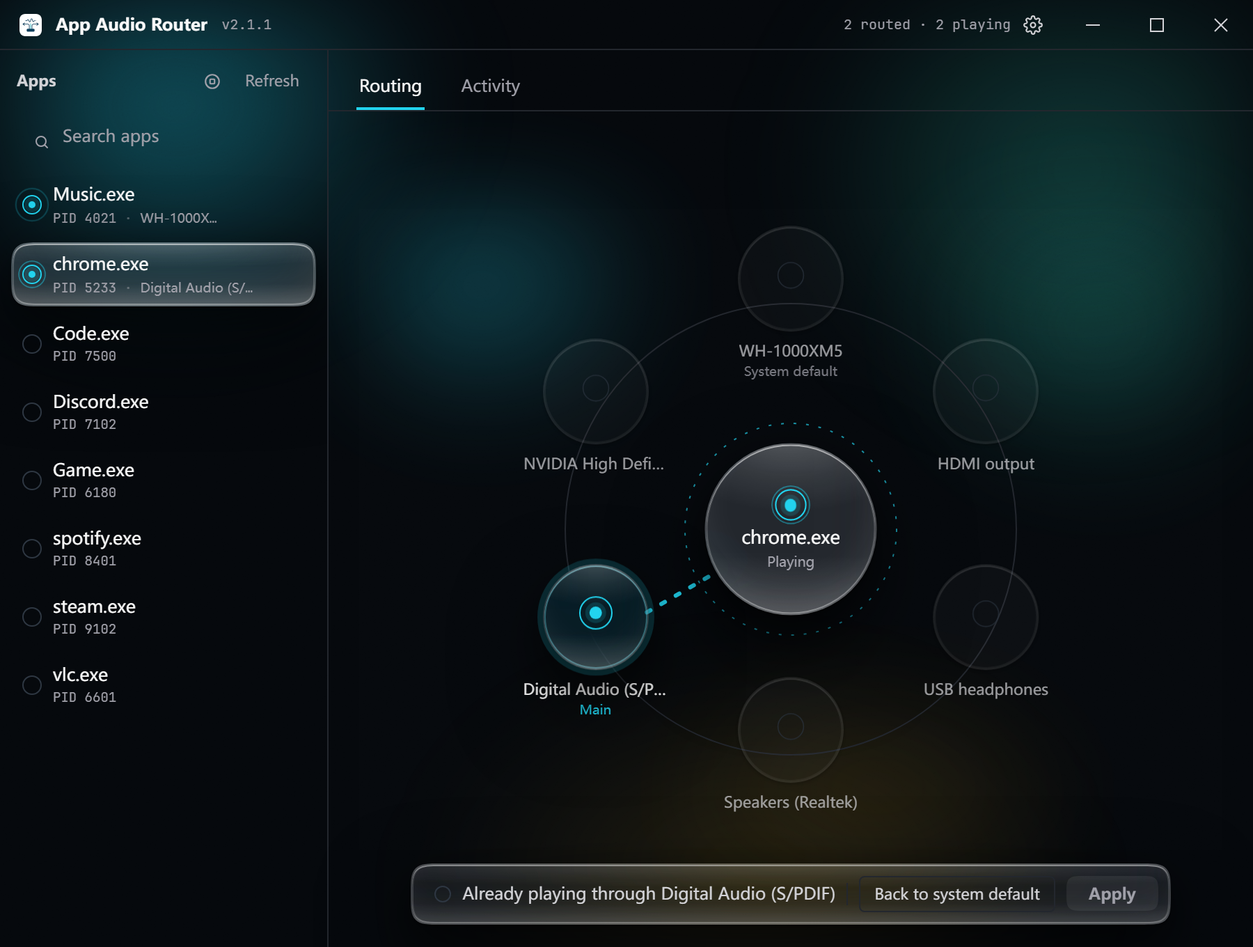
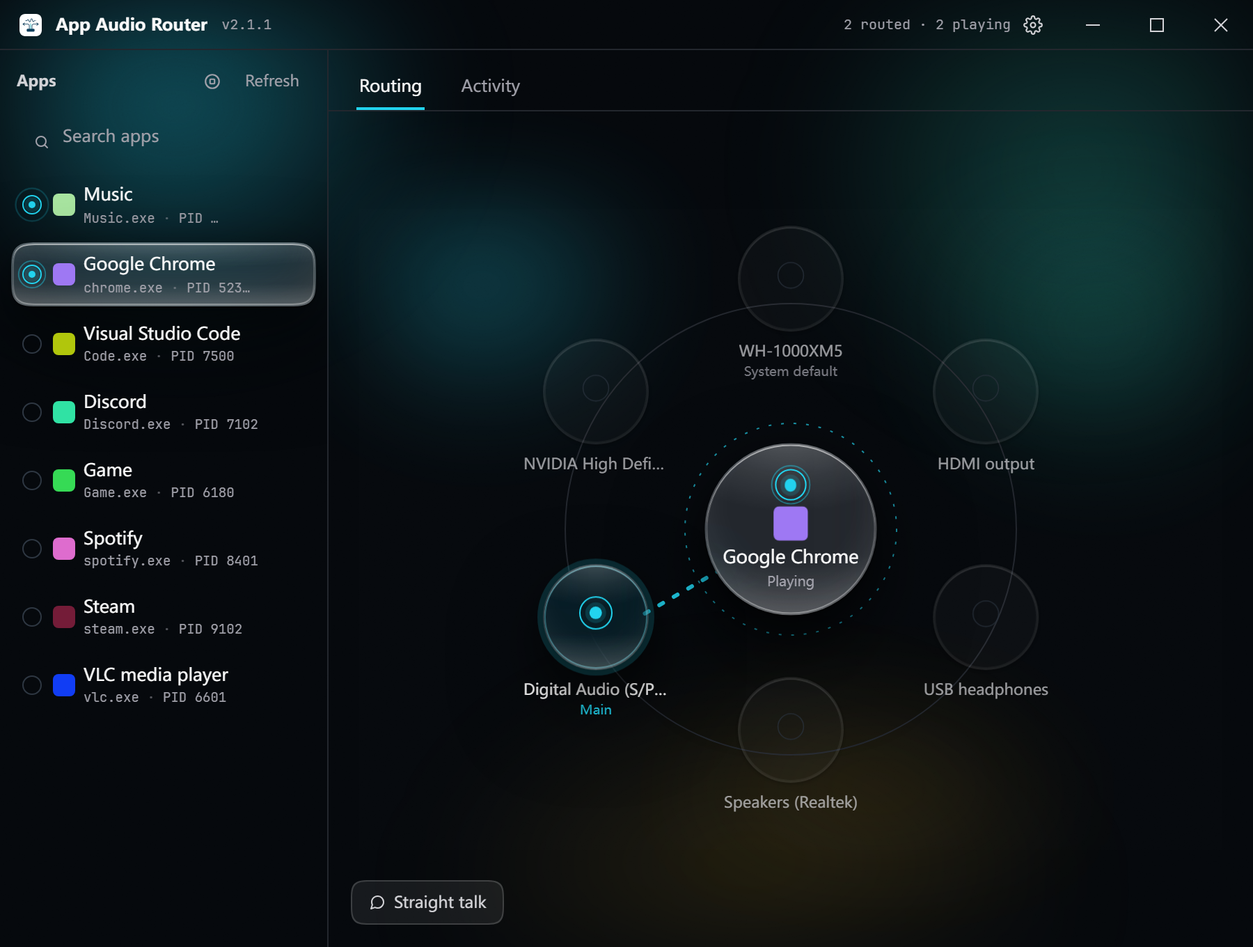
docs: the hub applies, the dock is gone, and 直说 tells the state
AGENTS.md: the stage spec now describes the hub as the apply button
(badge, aria sentence, revert-by-reselect, the way back living in the
rail), documents the StatusBriefing bubble as the on-demand exception
to the no-second-summary rule, and moves the Escape-with-visibility
rule to its new anchor; the checklist follows. Both READMEs say
"click the circle in the middle" where they said press Apply, and the
screenshots are recaptured without the dock.

diff --git a/AGENTS.md b/AGENTS.md
@@ -58,7 +58,7 @@ AppAudioRouter/
 │   ├── components/         # UI 组件
 │   │   ├── ConcentricStage.tsx   # 同心圆舞台，也是路由唯一被表达的地方：中心是被选中的那个程序（Hub），每台输出设备一枚环绕它的玻璃圆盘（Satellite），每枚参与路由的圆盘与中心之间一根辐条；内含只给副本用的 Tuner
 │   │   ├── ProgramRail.tsx       # 左栏程序列表：每行一个正在出声的程序，行末那颗圆形开关「同时更改此程序的输出」取代了 Ctrl+点击
-│   │   ├── ActionDock.tsx        # 工作区底部悬浮玻璃条：一句话 + Apply（舞台永远只是提案）；唯一的「回到系统默认」也在这里
+│   │   ├── StatusBriefing.tsx    # 「直说」按钮 + 现状气泡：点一下就用大白话说清此刻每个程序从哪儿出声；按钮的完整名字放自制的 ui/Tooltip
 │   │   ├── SourceLevelDial.tsx   # 中心圆盘下方的每程序电平环（0–400 %，套 ScrubReadout 的 lead 槽画环），只在多设备路由时挂载
 │   │   ├── Toast.tsx             # 瞬态提示：路由后提供「撤销」（全项目唯一的撤销入口）
 │   │   ├── SettingsPage.tsx      # 设置独立页面（主题/语言/路由开关/已记忆路由列表/每应用音频重置/后台开关/延迟范围·步进/一键对齐/关于）
@@ -73,6 +73,7 @@ AppAudioRouter/
 │   │       ├── SegmentedControl.tsx    # 下划线式分段控件（不是胶囊，也不是 pill track）
 │   │       ├── ScrubReadout.tsx        # 通用「数值即控件」（拖动/滚轮/方向键/键入），电平环在用；lead 槽可在数字前挂一个跟随预览值的图形
 │   │       ├── StepButton.tsx          # 方形 ± 按钮（h-6 w-6，仅设置页在用）
+│   │       ├── Tooltip.tsx             # 自制 tooltip（native `title` 迟、不可样式化、测试不可见）：悬停/聚焦稍作停留即出现；实体底，不走 backdrop-filter
 │   │       ├── ConfirmButton.tsx       # 二次确认按钮（先「确认？」再执行；Escape/失焦/超时解除）
 │   │       └── DelayStepper.tsx        # 设置页的延迟行控件（−/数值/+ 方框样式）
 │   ├── hooks/              # 自定义 hooks
@@ -93,7 +94,7 @@ AppAudioRouter/
 │   ├── lib/                # 工具函数
 │   │   ├── invoke.ts       # Tauri invoke 封装
 │   │   ├── delay.ts        # 延迟步进/钳制/范围换算
-│   │   ├── stage.ts        # 舞台几何：中心/圆盘/辐条的尺寸与角度（辐条两端由此算出，不测量）+ 三种角色各自的配色类名
+│   │   ├── stage.ts        # 舞台几何：中心/圆盘/辐条的尺寸与角度（辐条两端由此算出，不测量）+ 三种角色各自的配色类名 + alreadyApplied（计划是否已是事实）
 │   │   ├── motion.ts       # 全局共享动效曲线（tap / glide / route / fade）
 │   │   ├── types.ts        # 共享类型定义
 │   │   └── window.ts       # 窗口控制（懒加载 Tauri API）
@@ -126,7 +127,7 @@ AppAudioRouter/
    - 类型/接口：`PascalCase`，**不**加 `I` 前缀
 6. **Tailwind**：优先 utility class，禁止自定义 CSS 类（除非通过 `@apply` 或 CSS variables）
 7. **动画**：统一使用 Motion 组件，禁止手写 `@keyframes`（除非 Motion 无法实现）。spring 与时长一律取 `lib/motion.ts` 的四条共享曲线——`SPRING_TAP`（微交互）/ `SPRING_GLIDE`（有位移的元素）/ `SPRING_ROUTE`（路由动作本身）/ `FADE`（纯透明度），**不要在调用点现调参数**：邻居之间弹得不一样看着像 bug，不像设计。`main.tsx` 的 `MotionConfig reducedMotion="user"` 已全局跟随系统「减少动态效果」，新增动画不必各自判断。
-8. **动效只用来报告状态**：动画要说明一件正在发生的事（视图切换、下划线迁移、操作条浮出、路由已生效、程序正在出声），纯装饰的无限循环一律不加——日志面板那颗心跳点就是因为一直在眼角闪而改成静止的。
+8. **动效只用来报告状态**：动画要说明一件正在发生的事（视图切换、下划线迁移、现状气泡浮出、路由已生效、程序正在出声），纯装饰的无限循环一律不加——日志面板那颗心跳点就是因为一直在眼角闪而改成静止的。
 9. **常驻循环只有两个，且都必须被闸门看住**：一是**辐条上的流动虚线**（报告"这个程序此刻正在出声"），二是**同心圆环的脉冲**（报告同一件事）。
    2026-10-01 删掉了那批装饰循环（背景漂移光晕、80s 轨道环、设备脉冲环），连同 `useDecorativeMotion()`；2026-10-03 的同心圆舞台把这两个*有信息*的循环请了回来——
    除此之外仍然一个循环都不许有。闸门（`useLiveness`）是硬约束：窗口不可见、失去焦点、或系统要求减少动效时，这两层都**卸载**（辐条回到静止实线、脉冲环不再存在），不是暂停——静止的界面不产生任何重绘。
@@ -166,7 +167,7 @@ AppAudioRouter/
 
 - 前端使用 Zustand store（`stores/routerStore.ts`）集中管理设备、进程、选中状态、日志
 - 进程选择是有序集合（`selectedPids`）：单击单选，Ctrl+点击多选；一次路由操作应用到全部选中进程
-- 路由选择是有序集合（`selectedDeviceIds`）：点击圆盘表达的是**进/出这条路由**；谁是主设备不是"第一次点击"的意外——Apply 一直按延迟排序落地（`orderByDelay`，稳定排序，住在 `lib/delay.ts`），舞台画的也是这个延迟序，所以主位永远是 Apply 之后真正被系统直连的那台。延迟全为默认 0 时排序稳定、计划自身的顺序说了算——副本角色词上的「设为主输出」（`promoteDevice`，把该设备提到计划首位，随 Apply 生效）就是把这份自由交给用户；延迟补偿严格更大的设备坐上主位会让延迟对不齐（主输出被系统直接播放，软件延迟只能往后加），所以它的角色词不是控件，悬停不出现动作、由 `title` 解释原因。
+- 路由选择是有序集合（`selectedDeviceIds`）：点击圆盘表达的是**进/出这条路由**；谁是主设备不是"第一次点击"的意外——路由落地（按下中心圆）一直按延迟排序（`orderByDelay`，稳定排序，住在 `lib/delay.ts`），舞台画的也是这个延迟序，所以主位永远是落地之后真正被系统直连的那台。延迟全为默认 0 时排序稳定、计划自身的顺序说了算——副本角色词上的「设为主输出」（`promoteDevice`，把该设备提到计划首位，随落地生效）就是把这份自由交给用户；延迟补偿严格更大的设备坐上主位会让延迟对不齐（主输出被系统直接播放，软件延迟只能往后加），所以它的角色词不是控件，悬停不出现动作、由 `title` 解释原因。
 - 选中一个进程会**预填**目标设备（`deviceSelectionPrefilled`：当前路由 → 系统默认设备），这是程序自己的猜测，不是用户的选择：这一状态下第一次点另一台设备是**替换**（"改成只输出这一台"）并留一行 `deviceSwitched` 日志，之后才恢复追加/取消的语义。2.1.1 修的就是这里——以前"换个设备"会变成两台一起响，声音出现在用户正想离开的那台设备上。
 - 系统默认渲染设备由 `get_default_device` 取得并存入 `defaultDeviceId`；进程无可记忆路由时以它作为默认关联设备（选中进程即自动选中），进程列表每行显示该进程当前播放到的设备
 - 路由记忆配置由 Rust 端持久化到 `app_data_dir/route-memory.json`（`config.rs`，exe -> 设备列表，兼容旧版单设备格式）
@@ -233,7 +234,7 @@ AppAudioRouter/
 - **显示名是显示层，exe 是身份层，两层不许互换**（2026-10-04 起）：`AudioSession.display_name`（`process_meta.rs`）按「窗口标题 → FileDescription → 无（前端显示 `exe_name`）」取链。窗口标题用**一次 `EnumWindows` 扫全表**拿，且**只有可见窗口有资格**（Z 序、无 owner、非 tool window 者优先；隐藏窗口的标题是别人的管件——steam.exe 有个不可见窗口标题就叫「无标题」，而可见的 Steam 窗口属于 steamwebhelper.exe——托盘常驻的程序理应落到 FileDescription）。FileDescription 读一次后按镜像路径在本轮枚举内缓存——浏览器十几个进程共享一个文件。
   - ⚠ **`VerQueryValueW` 的长度单位有两套**：字符串值是**含 null 的字符数**，Translation 表才是**字节**——按字节读字符串曾把 "Microsoft Edge"（15 含 null）砍成 "Microso"。`file_description_reads_the_whole_string` 用真文件钉住这一点。
   - **它跟随窗口**：浏览器换标签 rail/中心就换名，这是有意的行为（与音量混合器一致），所以 `sessionSignature` **故意不含 display_name**——换标题不是"进程列表变化"，不许写日志。别把它加回签名。
-  - **它不进任何键**：路由、记忆（route-memory.json）、源电平、固定端点全部按 exe；dock 的句子、舞台中心、左栏首行用显示名，左栏第二行在显示名与 exe 不同时**保留 exe**（`rail.pid` 前缀），因为用户对着托盘图标和任务管理器时认的是 exe。`exe_path` 只在 Rust 内部装配用，`skip_serializing`，前端永不收路径。
+  - **它不进任何键**：路由、记忆（route-memory.json）、源电平、固定端点全部按 exe；舞台中心（及其按钮的 `aria-label`）、左栏首行用显示名，左栏第二行在显示名与 exe 不同时**保留 exe**（`rail.pid` 前缀），因为用户对着托盘图标和任务管理器时认的是 exe。`exe_path` 只在 Rust 内部装配用，`skip_serializing`，前端永不收路径。
 - **图标按 exe 取、按 exe 问**：`get_process_icon(pid)` 在 Rust 侧自己解析镜像路径（`QueryFullProcessImageNameW`——`GetProcessImageFileNameA` 给的设备路径 shell 不认），`SHGetFileInfoW` → `GetIconInfo` → `GetDIBits` 解成 RGBA（有 alpha 用 alpha，老图标用 AND mask 兜底），base64 过线。**Rust 侧按路径只缓存命中**：命中的提取不该重复付钱；**miss 不缓存**——miss 覆盖的失败（进程正在退出、文件正在更新、shell 输掉一次竞态）恰恰是下一次询问要迈过去的，把 miss 钉死等于把一次瞬时损失变成整场没有图标（Cookie Clicker 就是这么丢的图标）。失败的提取很便宜，询问节奏又是事件驱动，无需限流。
   - ⚠ **一次只按 exe 发一个询问**（`iconsInFlight`）：Electron 游戏一个 exe 挂四个会话，按会话问就是四个并发询问抢写 `iconByExe` 的同一个键——中途死掉的那个 pid（Electron 子进程随时重启）最后落地 null，把三个好答案全踩掉。每轮刷新每个 exe 只用第一个会话的 pid 问一次。
   - 前端 `iconByExe`（exe -> data URL | null）由 `loadMissingIcons` 在 `refreshSessions` 之后**火后不管**地补：列表必须先出现，图标后到。**data URL 是终态**，永不再问；**null 与「还没问」都会在后续刷新再问**——最能解释"图标曾经有、后来没了"的失败就是问的那一瞬间 pid 正在死，下一轮刷新自然补上。
@@ -326,7 +327,7 @@ AppAudioRouter/
 - 主题切换通过 `document.documentElement.classList.toggle('dark')`
 - 持久化用户偏好到 `localStorage` + 跟随系统初始值
 - 色板为青色（cyan）信号色，不用靛紫/紫罗兰；改色时 `:root` / `.dark` 两份定义与 `--*-rgb` 镜像通道必须一起改（`--bg-primary` / `--text-primary` 还在 `index.html` 里各有一份首帧内联副本，也要同步）
-- **这套界面是液态玻璃做的**：程序行、舞台上的圆盘与枢纽、底部操作条、Toast、弹窗，凡是"浮起来"的东西都穿 `--glass*`
+- **这套界面是液态玻璃做的**：程序行、舞台上的圆盘与枢纽、现状气泡、Toast、弹窗，凡是"浮起来"的东西都穿 `--glass*`
   那一组令牌。液态玻璃 = 一块**厚透镜**，不是磨砂片：它保持通透（填充 alpha 很低，靠 `--glass-filter` 的 blur+saturate+brightness 折射背后的光）、
   顶部有一枚**紧而亮的高光**（光源的镜面反射，`--glass-specular*` 的第一层 radial）、底部有一道**焦散亮线**与** trapped 在内部的光池**
   （`--glass-specular*` 的第二层 + `--glass-rim*` 的 inset 底部两条）、**整圈 rim catch 一条细亮边**（`--glass-rim*` 的 `inset 0 0 0 1px`），
@@ -349,10 +350,11 @@ AppAudioRouter/
     往低配档里留一个"小一点的 blur"没有意义（没有便宜的 blur）；同理**禁止在组件里手写 `backdrop-blur-*`**
     （Tailwind 工具类绕过令牌，低配档管不住它）——所有玻璃面必须走 `.glass*` 类。
 - **角色三色**（`--type-*`）只属于舞台：**同一个颜色画三处**（圆盘上的环 / 到它的辐条 / 角色词），所以它们没有 `-hover` 之类的变体，
-  也不许拿去给别的东西上色。三种角色就是全部，**没有"已选未应用"那一色**：那个区别由底部操作条的那句话承担，不由颜色承担。
+  也不许拿去给别的东西上色。三种角色就是全部，**没有"已选未应用"那一色**：那个区别由中心圆自己承担——待生效时它是一枚带「点按生效」胶囊的按钮，已经是事实时它退回一块普通玻璃。
 - **圆角是阶梯，不是随手取的数**（`tailwind.config.ts` 的 `borderRadius`）：`window 40 → panel 32 → card 26 → ctl 20 → seg 17`。
   相邻两级的差 ≈ 它们之间的内边距，这才是"连续曲率"读起来连续的原因；层级务必取自这一串值（容器大、控件小），别在调用点写 `rounded-[13px]`。
-  阶梯只管**停着的矩形平面**（设置页的纸、弹窗）。**浮起来的东西是胶囊或真圆**：dock、toast、rail 的选中与搜索、dock 里的按钮一律 `rounded-full`；
+  阶梯只管**停着的矩形平面**（设置页的纸、弹窗）。**浮起来的小控件是胶囊或真圆**：toast、rail 的选中与搜索、「直说」按钮一律 `rounded-full`；
+  现状气泡是浮起来的**多行面板**，走 card 级圆角（`rounded-[26px]`）。
   同心圆家族（hub、设备圆盘）是**真圆**——`rounded-full` 且**不加** `.squircle`，因为 `corner-shape: squircle` 会把满半径渲染成超椭圆（圆角方块），
   一整圈方块站在圆轨道上会把"同心圆"读成"方块摆成圈"。`.squircle` 只留给矩形平面做连续曲率，不支持时退化成普通圆角。
 - `.con-ring*` 是同心圆指示器的一族：外环（描边）说"它是什么"，`::after` 的内芯说"它在不正在响"，中间那一圈什么都不画是必须的——
@@ -479,7 +481,7 @@ AppAudioRouter/
 视觉语言是**液态玻璃 + 连续曲率圆角 + 同心圆**（`.glass` / `.squircle` / `Ring`；令牌见「主题系统」）。
 同心圆不是装饰，它是这套界面的字母：**外环说「它是什么」**（系统直放 / 副本 / 没参与），**内芯说「它在不正在响」**，
 两者之间那一圈必须留空——没有那圈空就读不出同心，变成"一个点加一块糊掉的东西"。
-整张舞台的词汇量就这么多，剩下的交给位置和底部那一句话。
+整张舞台的词汇量就这么多，剩下的交给位置、中心那一枚按钮和左下角那句大白话。
 
 ### 为什么是这个形状（以及为什么这次不算①复发）
 
@@ -500,11 +502,12 @@ AppAudioRouter/
 
 - `drawn = selectedDeviceIds` 是**计划**，`live = routedPids[pid]` 是**事实**。选中一个程序时，store 用事实（无路由时用系统默认设备）预填计划，
   所以刚选中时屏幕上出现的是现实；动过手之后出现的是待办的改动。
-- ⚠ **舞台画的顺序是 Apply 会落地的顺序**（`orderByDelay`，稳定排序），不是 `selectedDeviceIds` 的原始顺序：没配延迟时两者一致，
-  配了延迟时角色词当场落在真正会坐主位的那台上——预览不许说谎。`ActionDock` 的句子与 `alreadyApplied` 读的是同一份顺序；
-  一个被延迟序盖过的点击顺序没有自己的计划可画，也就不构成"未应用的改动"。
-- ⚠ **舞台不许自称计划是事实**，也不许给"已选未应用"发明第四种颜色：那个区别由**底部操作条那句话**承担
-  （"将通过 X 播放" vs "当前正通过 X 播放"）。把两套真相塞进同一枚环的颜色里，用户没有义务猜哪个是真的。
+- ⚠ **舞台画的顺序是落地时采用的顺序**（`orderByDelay`，稳定排序），不是 `selectedDeviceIds` 的原始顺序：没配延迟时两者一致，
+  配了延迟时角色词当场落在真正会坐主位的那台上——预览不许说谎。中心圆的 `aria-label`（`stage.applyAria*`）与 `alreadyApplied`
+  （`lib/stage.ts`，有单测）读的是同一份顺序；一个被延迟序盖过的点击顺序没有自己的计划可画，也就不构成"未应用的改动"。
+- ⚠ **舞台不许自称计划是事实**，也不许给"已选未应用"发明第四种颜色：那个区别由**中心圆自己**承担——
+  待生效时它是一枚按下去会落地的按钮（带「点按生效」胶囊与 hover 外环），已经是事实时它退回一块普通玻璃、不可按。
+  把两套真相塞进同一枚环的颜色里，用户没有义务猜哪个是真的。
 - **辐条只在三者重合时流动**：画出来的 == 正在生效的（`drawn` 与 `live` 等长同序）&& 程序在响 && `useLiveness()` 放行。
 
 ### 舞台几何（`lib/stage.ts`）
@@ -545,10 +548,10 @@ AppAudioRouter/
 - **角色词那一行无论有没有字都占位**（`minHeight: 12`）：只有参与路由的才有词，不占位的话一列名字就没有共同基线。
   空闲设备在同一位置让给 `System default`——一个位置，一种说法。
 - **主位是搬得动的**：多设备计划里，副本的角色词就是控件——「副本」带一圈点状下划线，悬停/聚焦变成「设为主输出」
-  （`stage.promote*`），点击调 `promoteDevice` 把这台设备提到计划首位，两枚圆盘的角色词当场换场，Apply 才动硬件。
+  （`stage.promote*`），点击调 `promoteDevice` 把这台设备提到计划首位，两枚圆盘的角色词当场换场，中心圆按下去才动硬件。
   延迟补偿严格大于主输出的副本没有这个控件（舞台画的就是延迟序，点了也不会生效的动作不该出现）：
-  它仍是「副本」两个字，`title` 解释为什么。`alreadyApplied` 的比对与 dock 句子都读延迟序，所以被延迟序盖过的
-  点击顺序不会让 Apply 键无谓地亮着。
+  它仍是「副本」两个字，`title` 解释为什么。`alreadyApplied` 的比对与中心圆的 `aria-label` 都读延迟序，所以被延迟序盖过的
+  点击顺序不会让那枚按钮无谓地亮着。
 - ⚠ **路由永不为空**：`drawn.length === 1 && drawn[0] === device.id` 时点击被忽略（守卫在最前端，不是靠后端兜底）。
   "一个程序没有地方可以出声"不是这个应用提供的状态。
 - **没有「一台 / 多台」模式开关**：点圆盘就是开关，第一个被选中的成为主设备，之后加的都是副本。这是一次选择，不是一个菜单里的选项。
@@ -558,7 +561,7 @@ AppAudioRouter/
 
 舞台上每个会动的东西都对应一件刚发生的事，动效曲线只用 `lib/motion.ts` 的共享曲线（`SPRING_ARRIVE` 入场、`RIPPLE` 涟漪）：
 
-- **按压是弹性形变，不是等比缩放**：圆盘与 Apply 按下时 `scaleX` 涨 / `scaleY` 压（一滴液体被按扁），松手弹回真圆；等比缩小读起来像贴纸被揭起来。
+- **按压是弹性形变，不是等比缩放**：圆盘与中心圆按下时 `scaleX` 涨 / `scaleY` 压（一滴液体被按扁），松手弹回真圆；等比缩小读起来像贴纸被揭起来。
 - **同心圆涟漪**：按下某枚圆盘时从它发出一圈与它同心的环，扩到约 2.2 倍并淡出（`RIPPLE`，tween 不走 spring——波是离开的，不该回弹）。
   一次性、按一次发一次，**不是常驻循环**；没改变任何事的按（路由只剩一台时点它）不发涟漪。
 - **玻璃的高光跟着指针走**：`useGlassSpecular()` 用一个委托 `pointermove` 把悬停面板的局部指针位置写进 `--gx/--gy`，
@@ -569,14 +572,14 @@ AppAudioRouter/
   环是**顺时针组装出来的**，不是整圈同时闪现。只有首次挂载播放：设备热插拔时只有新盘子动。
 - **辐条是长出来的**：`motion.line` 动画 `x2/y2` 从中心轮缘长到圆盘轮缘，撤下时缩回去——"接上了 / 断开了"是看得见的动作。
   `AnimatePresence initial={false}`：页面刚打开时辐条静态就位，只有之后新出现的才有入场戏。
-- **词与数字都是"替换"不是"改写"**：角色词、hub 里的程序名、dock 那句话都用 `AnimatePresence mode="wait"` 换场（FADE + 4–5px 位移）；
+- **词与数字都是"替换"不是"改写"**：角色词、hub 里的程序名都用 `AnimatePresence mode="wait"` 换场（FADE + 4–5px 位移）；
   副本的延迟/音量数值用 `mode="popLayout"` 纵向滚动。句子被原地改写没人会重读。
 - **hub 外圈虚线环**（`HUB_HALO_R`）：空闲时 hairline，有计划时换 accent 色——两层圆交叉淡入而不是动画颜色（颜色插值会脱离主题令牌）。
 - **空闲圆盘退后**：`animate` 的 opacity 目标是 `lit ? 1 : 0.72`，悬停任何圆盘都补足到 1 并放大 1.05；悬停还有一圈 `border-accent/45` 的外环以 opacity 淡入（不动阴影）。
 - **左栏选中是一块会滑的玻璃**：`layoutId="rail-selection"` 挂在 subject 行的高亮上，换选时整块玻璃滑过去；加入批量的行用静态 `bg-accent/[0.07]`。
   行本身带 `layout`——程序开始/停止发声、路由排序变化时，行**移动**到新位置而不是重画。
 - ⚠ 两条硬线不变：**唯一的常驻循环仍是声流虚线与在响的脉冲环**，且仍被 `useLiveness` 看住；入场/悬停动效交给 `MotionConfig reducedMotion="user"`。
-  给 dock、圆盘、± 按钮加的 `whileTap`/`whileHover` 一律用共享曲线，不许在调用点现调。
+  给中心圆、圆盘、± 按钮加的 `whileTap`/`whileHover` 一律用共享曲线，不许在调用点现调。
 
 ### 延迟与音量为什么只挂在副本上
 
@@ -603,24 +606,37 @@ AppAudioRouter/
 - **流速不随音量**：那需要引擎发布逐帧电平，而轮询电平的唤醒代价高于效果本身。已知取舍，别顺手加上。
 - e2e 坑：只有两台设备时辐条正好竖直，包围盒宽度为 0，`toBeVisible()` 会失败——**数元素**（`toHaveCount(1)`），别测可见性。
 
-### 中心（`Hub`）
+### 中心（`Hub`）＝应用按钮（2026-10-04 起）
 
 一枚 `HUB_D` 的大玻璃圆盘：里面是一枚 `Ring`（有计划时 `main`，否则 `idle`）+ 程序名 + 一行"正在播放 / 未在播放"。
-它**不可点**：指着这一群里的另一个由左栏负责，指着"中心自己"没有意义。容器挂 `data-source-node`。
-`SourceLevelDial`（每程序电平环）只在 `drawn.length > 1` 时挂上来——与副本那组按钮是同一条规则：单设备路由没有引擎。
+**有改动待生效时它就是按钮**：按下走 `applyRoute()`，与原 Apply 同一套守卫（空计划 / 空选择 / `applying` 中都不动）。
+`data-source-node` 挂在 button 上（e2e 的 `hub(page)` 就是这枚按钮）；`SourceLevelDial`（每程序电平环）只在 `drawn.length > 1`
+时挂上来——与副本那组按钮是同一条规则：单设备路由没有引擎，电平环在 button **外**，控件里不能嵌控件。
 
-### 底部操作条（`ActionDock`）
+- **待生效的 affordance**：`alreadyApplied`（`lib/stage.ts`）判 false 时——rim 上斜挂一枚 accent「点按生效」胶囊
+  （`stage.applyHint`，`pointer-events-none`、绝对定位所以不推动布局）、hover 出一圈与圆盘同款的外环、
+  按压走与原 Apply 同一个压扁手势。已经是事实（或没选程序）时 `disabled`，胶囊消失、退回普通玻璃标签——
+  "你正在看着答案，不该再问你一遍"。
+- **`aria-label` 是完整的句子**（`stage.applyAriaOne` / `applyAriaMany`）：屏幕阅读器听到的不少于原 dock 那句话。
+  不可按时省略 `aria-label`，读程序名即可。
+- **丢弃已选的改动 = 重新选中那个程序**：`selectProcess` 会把事实读回计划，所以"还原"从来不是独立按钮，
+  只是重选的别名（e2e 对此有专门用例）。
+- **「回到系统默认」住两处**：左栏表头的全部（`ConfirmButton` 图标）与每个已路由行悬停时的 ✕（同样 `ConfirmButton`）。
 
-工作区底部一层 `absolute inset-x-0 bottom-4` 的 `pointer-events-none` 居中层，**浮着、不占布局、不推动任何东西**。
-内容只有一句话 + `Apply`，以及一条竖 hairline 后面的破坏性动作与 `Revert`。
+### 现状气泡（`StatusBriefing`）
 
-- `alreadyApplied()`： staged 与正在播放的完全一样时不问——刚路由完、或重新选中一个已路由的程序，
-  都属于"你正在看着答案，不该再问你一遍"。
-- `Revert` = 重新 `selectProcess(pid)`：store 在选中时会把事实读回计划，所以"丢掉我的选择"和"重新选中它"是同一个操作。
-- 「回到系统默认」用 `ConfirmButton`（Escape / 失焦 / 超时解除），作用域 = 选中的已路由程序；
-  **没有选中时 = 全部已路由程序**——那是唯一能走出"看不见的路由"的出口。
-- ⚠ **`Escape` 的捕获阶段监听必须跟着可见性注册与注销**（现在的锚点换了组件，规矩没变）：常驻注册会把整个窗口的 Escape 全吞掉，
-  搜索框按 Esc 清空会失效（这个 bug 出现过，由 e2e 抓出）。
+工作区左下角 `absolute bottom-4 left-4` 的「直说」小胶囊（原 dock 的角落）：点一下弹出玻璃气泡，
+用大白话说清**此刻**的播放情况——只报告，不操作。
+
+- 内容一行一程序（`briefing.routeOne` / `routeMulti`，设备名列表用 `Intl.ListFormat` 按当前语言连接），
+  没有任何改道时说"都跟着系统默认设备走"（`briefing.empty*`），程序没在出声就缀 `briefing.quiet`；
+  舞台上有没落地的改动时补一行 `briefing.staged`。
+- ⚠ **它是「路由摘要」禁令的按需例外**：常驻的第二份路由表达（树、状态条、文字摘要）仍然禁止——气泡只在被问时出现，
+  问的是"现状"，不是替舞台再画一遍路由。
+- 按钮的完整名字（"让我用最直白、最简单、最不绕弯子的方式来告诉你现状"）放**自制的 `ui/Tooltip`**：
+  native `title` 迟、不可样式化、测试不可见；tooltip 是实体底（不走 `backdrop-filter`），气泡打开时 tooltip 让位。
+- ⚠ **`Escape` 与 `pointerdown` 的监听跟着气泡的可见性注册与注销**：常驻注册会把整个窗口的 Escape 全吞掉，
+  搜索框按 Esc 清空就失效（这个 bug 出现过，由 e2e 抓出）。规矩从 dock 时代原样继承，只是锚点换了组件。
 
 ### 左栏（`ProgramRail`）
 
@@ -635,18 +651,18 @@ AppAudioRouter/
 ### 布局与其余规矩
 
 - `App` 根节点 `relative isolate` + 一层 `.aurora`（`-z-10`，静态），**标题栏透明**——它是同一扇窗的一部分，不是贴在窗上的一块。
-  下面是 `aside`（236px + `border-r border-line`）＋ `main`（`relative`，给底部操作条一个锚点）＋ `UnderlineTabs`（Routing / Activity）。
+  下面是 `aside`（236px + `border-r border-line`）＋ `main`（`relative`，给现状气泡一个锚点）＋ `UnderlineTabs`（Routing / Activity）。
   标签页下划线用 `layoutId` 迁移，**不是胶囊**。
-- **路由只由舞台表达**：辐条就是路由。**别在别处再画第二份**（树、状态条、文字摘要）——同一件事说两遍会像两套状态
-  （`OutputStatusBar` 就是这样被删掉的）。
-- **accent 只用来标记"属于路由的那部分"**：左栏的选中行、`primary` 那一环与它的辐条、底部那个动作词。角色词按角色上色（那是编码本身）。
+- **路由只由舞台表达**：辐条就是路由。**别在别处再画第二份**（树、状态条、常驻的文字摘要）——同一件事说两遍会像两套状态
+  （`OutputStatusBar` 就是这样被删掉的）；现状气泡是**按需的例外**（见上节），不常驻。
+- **accent 只用来标记"属于路由的那部分"**：左栏的选中行、`primary` 那一环与它的辐条、中心圆的「点按生效」胶囊。角色词按角色上色（那是编码本身）。
 - 数字与标识符（PID、毫秒、百分比、版本号、exe 名）用 `font-mono tabular-nums`：等宽是这类界面里"这是数据"的记号。
-- **误操作防护**（几条一起才算完整）：① 舞台永远只是提案，改动必须按 Apply；② "也改这个"有看得见的开关，不依赖 Ctrl；
+- **误操作防护**（几条一起才算完整）：① 舞台只是提案，改动要点中心圆才落地；② "也改这个"有看得见的开关，不依赖 Ctrl；
   ③ 破坏性且影响全局的动作用 `ConfirmButton`；④ 路由后 Toast 给 8 秒撤销（全项目唯一的撤销入口）。
   另外一条是结构性的：路由不可能被点成空的。
-- **i18n**：文案分组是 `rail` / `stage` / `dock`（取代 `processList` / `canvas` / `deviceTable` / `router` / `statusBar`），
+- **i18n**：文案分组是 `rail` / `stage` / `briefing`（取代 `processList` / `canvas` / `deviceTable` / `router` / `statusBar` / `dock`），
   两组 locale 的键集合、占位符与非空由 `src/i18n/locales.test.ts` 的对称测试保护。
-  句子说人话，避开"路由 / 镜像 / 主设备"这类内部词（`dock.preview` 是「「{{process}}」的声音将通过 {{device}} 播放」，而不是"该进程已镜像至 X"）。
+  句子说人话，避开"路由 / 镜像 / 主设备"这类内部词（`briefing.routeOne` 是「「{{process}}」现在只从 {{device}} 出声。」，而不是"该进程已镜像至 X"）。
 - **禁止**：胶囊状的**标签页**（标签仍是下划线，`layoutId` 迁移——胶囊标签是上面那一版的反面；但浮动的**控件**是胶囊，见「圆角」）、
   常驻装饰循环（背景漂移、轨道环；**辐条流动与脉冲环是唯二的例外，且必须走卸载式闸门**）、舞台的拖动·平移·缩放、第二份路由摘要、
   把延迟/音量画到主设备上（包括"变淡地画"）、给"待确认"发明第四种颜色、给同心圆家族加 `.squircle`（会变成方块）。
@@ -723,7 +739,7 @@ cd src-tauri && cargo clippy -- -D warnings
 
 - [ ] `pnpm tauri dev` 启动无报错
 - [ ] 进程列表正确显示有音频会话的进程
-- [ ] 显示名：有窗口的程序在左栏首行、舞台中心、操作条句子里显示**可见**窗口标题（浏览器换标签跟着换名且不写「进程列表变化」日志）；托盘常驻或 UI 在别的进程里的程序显示版本资源描述（steam.exe → "Steam"，不是隐藏窗口的「无标题」；msedge.exe → "Microsoft Edge"，不是被砍半的 "Microso"），两者都没有时回退 exe 名；左栏第二行在两者不同时保留 exe；搜索两个名字都命中
+- [ ] 显示名：有窗口的程序在左栏首行、舞台中心（及其按钮的 `aria-label`）显示**可见**窗口标题（浏览器换标签跟着换名且不写「进程列表变化」日志）；托盘常驻或 UI 在别的进程里的程序显示版本资源描述（steam.exe → "Steam"，不是隐藏窗口的「无标题」；msedge.exe → "Microsoft Edge"，不是被砍半的 "Microso"），两者都没有时回退 exe 名；左栏第二行在两者不同时保留 exe；搜索两个名字都命中
 - [ ] 图标：左栏每行与中心显示 exe 图标（同 exe 的多个进程只有一份，也只发一次询问）；像素异步到达时行不移位（占位槽尺寸固定）；问的瞬间 pid 死掉或提取一时失败，后续刷新自动补问、图标自己回来；真正无图标的程序稳定显示首字母，不报错
 - [ ] 设备列表正确显示渲染设备
 - [ ] 路由操作成功（进程音频切换到目标设备）
@@ -740,8 +756,9 @@ cd src-tauri && cargo clippy -- -D warnings
 - [ ] 进程列表搜索：输入即时过滤，已路由的排在最前且组内顺序稳定；`Escape` 清空并失焦；无匹配时的提示与「没有进程在放音」不是同一句
 - [ ] 同心圆舞台：选中一个程序后它在中心（名字写在圆盘里），每台输出设备一枚环绕它的玻璃圆盘；参与路由的那几枚亮着并有辐条连到中心，**没参与的没有任何辐条也没有角色词**；设备名与角色词在圆盘**外面**，所以圆盘本身始终是整个可点的按钮
 - [ ] 先替换、后追加：选中一个已路由的程序后**第一次**点另一台设备是替换（只输出到那一台），同一状态下再点别的才是追加成副本；路由里只剩一台时点它被忽略——**路由不可能被点成空的**
-- [ ] 换主输出：多设备计划中副本的角色词带点状下划线，悬停/聚焦出现「设为主输出」，点击后两枚圆盘的角色词当场对调、Apply 后后端收到以它为首的设备顺序；延迟补偿更大的副本悬停不出现动作且 `title` 说明原因；给副本调一个比主输出更小的延迟（可为负），主位当场换人——舞台角色词、dock 句子、Apply 落地顺序三处一致
-- [ ] 底部操作条：一句话说清「声音将通过哪里播放」+ Apply，按了才响；画面已经是事实时它不问（只留 Revert 与「回到系统默认」）；`Escape` 不会赖着吃掉搜索框里的同名按键
+- [ ] 换主输出：多设备计划中副本的角色词带点状下划线，悬停/聚焦出现「设为主输出」，点击后两枚圆盘的角色词当场对调、按下中心圆后后端收到以它为首的设备顺序；延迟补偿更大的副本悬停不出现动作且 `title` 说明原因；给副本调一个比主输出更小的延迟（可为负），主位当场换人——舞台角色词、中心圆 `aria-label`、落地顺序三处一致
+- [ ] 中心圆即应用：有改动待生效时它是一枚按钮（rim 上挂「点按生效」胶囊 + hover 外环，`aria-label` 是完整句子），按下即落地并给 Toast 撤销；画面已经是事实时它不可按（胶囊消失、`disabled`）；未选中程序时整个 hub 是提示不是按钮；丢弃已选改动 = 重新选中那个程序（计划被事实读回，不发任何 apply_route）
+- [ ] 现状气泡：左下角「直说」点开，用大白话说清此刻的播放情况——没改道时说清都跟着系统默认设备走、每个已路由程序一行点名设备、没出声的缀一句；有没落地的改动时补一行怎么让它生效；再点一次 / 点气泡外面 / `Escape` 都能关掉
 - [ ] 批次：左栏行末那颗圆形开关能把另一个程序并进这次改动（不知道 Ctrl 也能做）；Ctrl+点击名称做同一件事，两处的状态一致
 - [ ] 声流：只有画出来的路线与正在生效的完全一致、且程序在响时，辐条才跑流动虚线；程序一停虚线消失（卸载，不是暂停）；把窗口切到后台或失焦，**辐条与脉冲环都被卸载**，静止界面不产生任何重绘；系统「减少动态效果」开启时同样静止
 - [ ] 延迟/音量只挂在副本上：路由 ≥2 台时副本那两组 ± 出现；**主设备没有这组控件**（不是变淡禁用）；延迟按一下走设置页的步进并在 ±range 处禁用对应方向，音量固定 5%
@@ -754,8 +771,8 @@ cd src-tauri && cargo clippy -- -D warnings
 - [ ] 每源电平：路由两个程序到同一组设备，把其中一个调到 <100 或 >100，只有它的响度变（环在舞台中心底下调节；设置页只剩一键对齐）
 - [ ] 一键对齐：两个程序同时放音，点「对齐电平」后两条响度接近，且**没在放音的程序原样不动并在日志里被点名**；只有一个程序在放音时提示说的是「只有一个」而不是「没有在放音」
 - [ ] 撤销：改路由后撤销回到上一步；撤销一个原本未路由的进程 = 回到未路由；开了自动记忆时，**撤销之后重启该程序不会把撤掉的路由装回来**；手动停掉某条路由后 Toast 不再提供撤销
-- [ ] 误操作防护：左栏表头与底部操作条里的「回到系统默认」都需二次确认（Escape / 失焦 / 超时解除）；Toast 退场时不吃掉紧接着的点击
-- [ ] 操作条只在有话要说时出现；`Escape` 不被任何常驻监听吞掉——**搜索框里的 `Escape` 仍然能清空搜索**
+- [ ] 误操作防护：左栏表头与每个已路由行里的「回到系统默认」都需二次确认（Escape / 失焦 / 超时解除）；Toast 退场时不吃掉紧接着的点击
+- [ ] `Escape` 不被任何常驻监听吞掉——**搜索框里的 `Escape` 仍然能清空搜索**（现状气泡与 Toast 的监听都跟着可见性注册与注销）
 - [ ] Light/Dark 切换流畅（玻璃两个主题：亮色填充 55% 白、暗色 5.5% 白）
 - [ ] 低配档：设置 → 外观里「降低玻璃特效」可开关并持久化（`aar-glass-lite`）；开启后任何 `.glass*` 面板的 `backdrop-filter` 计算值都是 `none`，高光不再跟指针，且运行中切换立即生效；用户没做过选择时，弱硬件（≤4 核 / ≤4GB）或系统关闭透明效果在**首帧之前**就已是低配档
 - [ ] 切页与下划线迁移流畅（60fps）；界面静止时（无程序在响、或窗口隐藏/失焦）不产生任何常驻重绘——辐条流动与脉冲环是唯二的主循环，且静止时被卸载

diff --git a/README.md b/README.md
@@ -26,7 +26,7 @@
 
 App Audio Router (**AAR**) is a per-application audio router for Windows. Windows itself only lets an application play to one output at a time; App Audio Router lifts that restriction. Pick a program, pick one or more playback devices, and the program's audio goes to all of them at once — live, without restarting the program.
 
-It is aimed at ordinary users rather than audio engineers. There is no mixer graph, no virtual cable and no driver installation: the whole app is one window — the programmes making sound in a sidebar on the left, and beside it a ring with the programme you picked at its centre and every playback device as a disc around it. A spoke from the centre to a lit disc *is* that part of the route, so "where is this sound going?" is answered by which discs are lit. One sentence at the bottom says what **Apply** will do before you press it, and the activity log sits one tab away.
+It is aimed at ordinary users rather than audio engineers. There is no mixer graph, no virtual cable and no driver installation: the whole app is one window — the programmes making sound in a sidebar on the left, and beside it a ring with the programme you picked at its centre and every playback device as a disc around it. A spoke from the centre to a lit disc *is* that part of the route, so "where is this sound going?" is answered by which discs are lit. A change becomes real only when you click the circle in the middle, and a small "Straight talk" pill in the corner will tell you where things stand in plain words. The activity log sits one tab away.
 
 | | |
 |---|---|
@@ -42,7 +42,7 @@ It is aimed at ordinary users rather than audio engineers. There is no mixer gra
 
 ## Screenshots
 
-The same stage in both themes: `chrome.exe` is the programme being looked at, so it sits at the centre and its route — the digital output — is the one lit disc, joined by a spoke and labelled *Main*. `Music.exe` plays to three devices at once (a Bluetooth headset, USB headphones and an HDMI output); picking it redraws the ring around its own route. The sidebar lists the programmes making sound, with each routed one marked by its ring, and the bar at the bottom says exactly what **Apply** would do. The title bar keeps the count: two routed, two playing.
+The same stage in both themes: `chrome.exe` is the programme being looked at, so it sits at the centre and its route — the digital output — is the one lit disc, joined by a spoke and labelled *Main*. `Music.exe` plays to three devices at once (a Bluetooth headset, USB headphones and an HDMI output); picking it redraws the ring around its own route. The sidebar lists the programmes making sound, with each routed one marked by its ring, and the hub at the centre is the button that applies the plan — while a change is waiting, a badge on it says so. The title bar keeps the count: two routed, two playing.
 
 ![App Audio Router with chrome.exe at the centre of the ring playing through the digital output, Music.exe routed to three devices listed in the sidebar, and every playback device as a disc around the centre](docs/images/app-audio-router-light.png)
 
@@ -78,7 +78,7 @@ The same stage in both themes: `chrome.exe` is the programme being looked at, so
 
 ### Interface and overhead
 
-- **A stage, not a form** — the process list is a sidebar, and the routing screen is a ring: the programme you picked sits at the centre with its name inside, every playback device is a glass disc around it, and a spoke from the centre to a lit disc *is* that part of the route. The first device of a route is the one Windows plays itself (accent); the devices after it are copies (teal), and a copy is the only place delay and level exist, because it is the only place there is a stream of ours to hold back or attenuate. Nothing takes effect until you press **Apply**, and nothing can leave a programme with nowhere to play — a ring always keeps at least one device lit. Devices no route touches get no spoke and no colour, which is most devices most of the time. A programme playing to several devices carries its own level as a ring under the hub, and the title bar keeps a quiet count — *2 routed · 2 playing*. Glass instead of cards, sentences instead of pills, monospaced figures for every value.
+- **A stage, not a form** — the process list is a sidebar, and the routing screen is a ring: the programme you picked sits at the centre with its name inside, every playback device is a glass disc around it, and a spoke from the centre to a lit disc *is* that part of the route. The first device of a route is the one Windows plays itself (accent); the devices after it are copies (teal), and a copy is the only place delay and level exist, because it is the only place there is a stream of ours to hold back or attenuate. Nothing takes effect until you click the circle in the middle, and nothing can leave a programme with nowhere to play — a ring always keeps at least one device lit. Devices no route touches get no spoke and no colour, which is most devices most of the time. A programme playing to several devices carries its own level as a ring under the hub, and the title bar keeps a quiet count — *2 routed · 2 playing*. Glass instead of cards, sentences instead of pills, monospaced figures for every value.
 - **Process list search** — filter the list by name as you type, with the programs that are currently routed kept at the top so the one you are working with does not move under the cursor. `Escape` clears the search.
 - **Light and dark themes**, English and Simplified Chinese, both switchable from the title bar; the preferred theme and language are applied before the first frame paints, so there is no flash on startup.
 - **Low background cost** — the app never polls the audio engine. It registers for change notifications and re-reads the lists when Windows says something actually moved, and each re-read that turns up no visible change is not even logged. The interface has exactly two things that move on their own: the dash running along the spokes of a programme that is sounding, and the pulse on the ring beside a programme that is — only while the window is visible, focused and free of the system's reduced-motion request; hidden, unfocused or silent, everything stands still and nothing repaints. An active route is idle when its program is, too: a routed program that has produced no sound for a second and a half stops being fed to its mirrored devices, rather than having silence written at them a hundred times a second apiece.
@@ -121,7 +121,7 @@ Prefer building it yourself? See [Build from source](#build-from-source).
 1. **Play some sound in the app you want to route.** A program only appears in the process list while it has an active audio session — audio routing is per session, not per shortcut.
 2. **Pick it in the sidebar.** One programme at a time is what the ring shows; the circular button at the end of another row adds that programme to the same change.
 3. **Click the discs it should play through.** The first one is the device Windows itself drives, and every disc after it receives a copy carrying its own delay and level. One always stays lit: a programme with nowhere to play is not a state this app offers.
-4. **Press Apply** in the bar at the bottom, which says exactly what it is about to do. Once the route is live, the spokes to those discs stay on the stage, and they flow while the programme is sounding.
+4. **Click the circle in the middle of the stage.** While a change is waiting, the hub wears a "click to apply" badge, and its accessible name says exactly what the click will do. Once the route is live, the spokes to those discs stay on the stage, and they flow while the programme is sounding.
 5. **Tune a copy if you need to** — its delay and level sit under its own disc.
 6. **Turn on Auto-remember** in the settings so the route is restored the next time that program plays.
 
@@ -198,14 +198,14 @@ Routing rules are keyed by **executable name**, not by PID, so a remembered rout
 AppAudioRouter/
 ├── src/                          # React frontend
 │   ├── components/
-│   │   ├── ConcentricStage.tsx   # the ring: the picked programme at the centre, one glass disc per device, one spoke per lit disc
+│   │   ├── ConcentricStage.tsx   # the ring: the picked programme at the centre, one glass disc per device, one spoke per lit disc; the hub applies the plan
 │   │   ├── ProgramRail.tsx       # programmes with an audio session, and whether each one joins the change
-│   │   ├── ActionDock.tsx        # the floating bar: one sentence and Apply
+│   │   ├── StatusBriefing.tsx    # the "straight talk" pill: where sound is going, in plain words, on demand
 │   │   ├── SourceLevelDial.tsx   # a programme's own level, as a ring under the hub
 │   │   ├── SettingsPage.tsx      # theme, language, routing, background, delays, about
 │   │   ├── LogPanel.tsx          # activity log (the second tab)
 │   │   ├── TitleBar.tsx          # custom frameless title bar, with the routed/playing count
-│   │   └── ui/                   # Ring, Switch, UnderlineTabs, SegmentedControl, ConfirmButton, …
+│   │   └── ui/                   # Ring, Switch, UnderlineTabs, SegmentedControl, Tooltip, ConfirmButton, …
 │   ├── hooks/                    # useTheme, useLanguage, useDelayValue, useBackendEvent, useLiveness
 │   ├── stores/routerStore.ts     # Zustand store
 │   ├── i18n/locales/             # en.json, zh-CN.json
